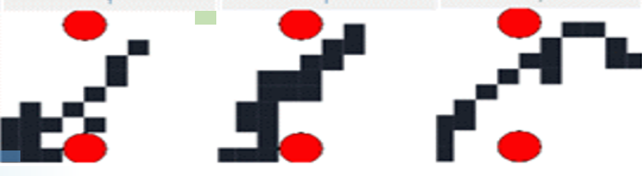
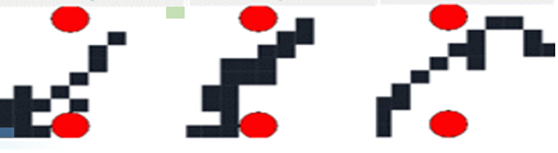
README v3

diff --git a/README.md b/README.md
@@ -1,12 +1,23 @@
-
 # Imitation Learning; Optimal Multiple Path Search Using VAIL
-
-## Demo
 
 ## How to
 
+The Customized environment and actions
+
+![environment actions](./img/girdworld-AE.PNG)<br>
+
+
+***environment.py*** : Currently, the customized Grid-World of the 20x20 pixel window is configured.
+
+***Expert dataset 1,2*** : Examples of configuring expert dataset with the pickle module
+
+***expert_generator.py*** : You can use this file to create expert data.
+
+***main.py*** : You can run this program by running ***main.py***.
+
 ## Result
-### two obstacles
+### two obstacles - 10 x 10 GridWorld
+You should need expert data to find approximately 50 shortest paths.
 
 **150 epoch**
 
@@ -18,6 +29,7 @@
 
 
 ### four obstacles - easy path
+You should need expert data to find approximately 200 shortest paths.
 
 **300 epoch**
 
@@ -41,6 +53,7 @@
 
 
 ### four obstacles - difficult path
+You should need expert data to find approximately 400-500 shortest paths.
 
 **700 epoch**
 
